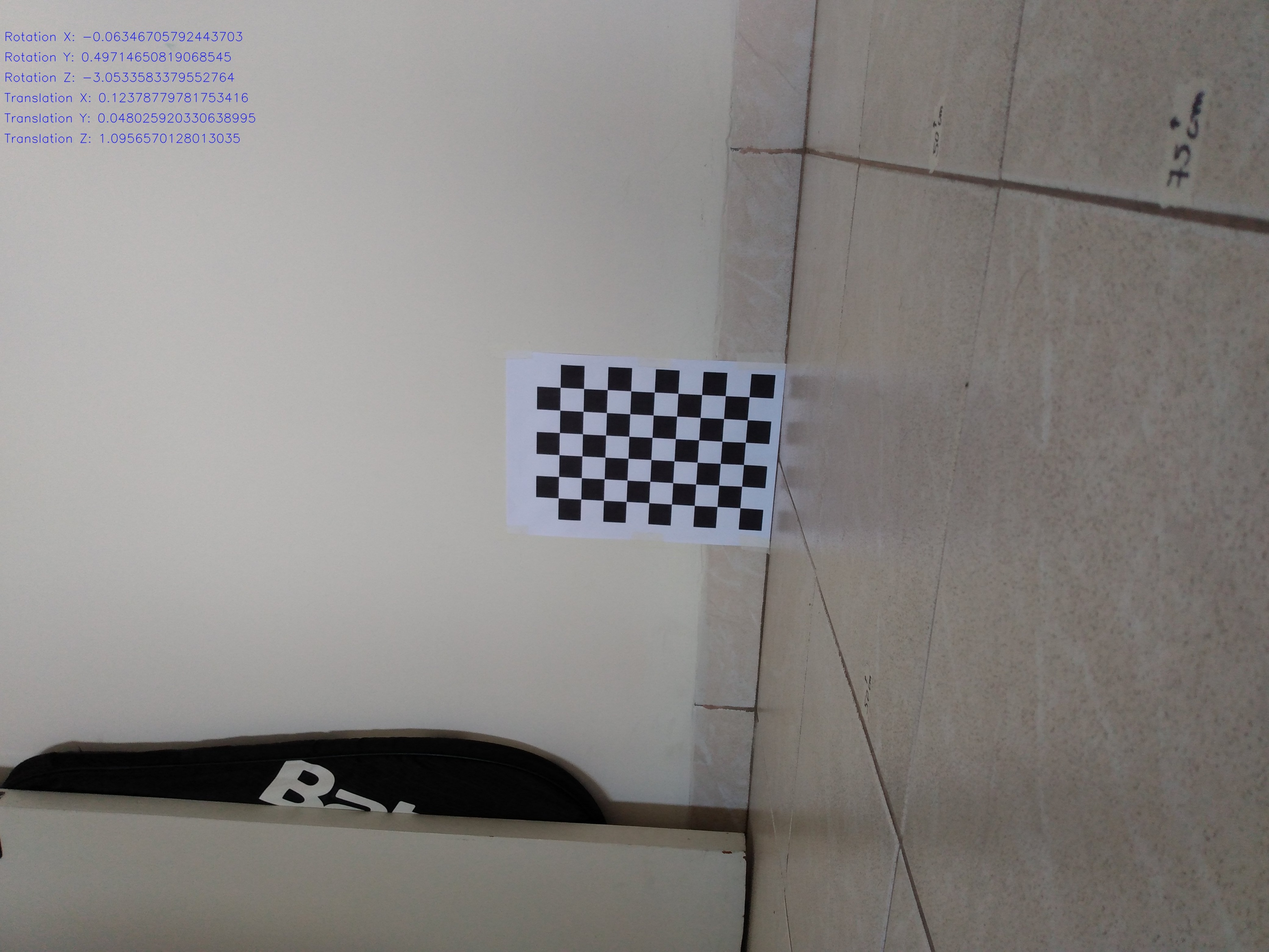
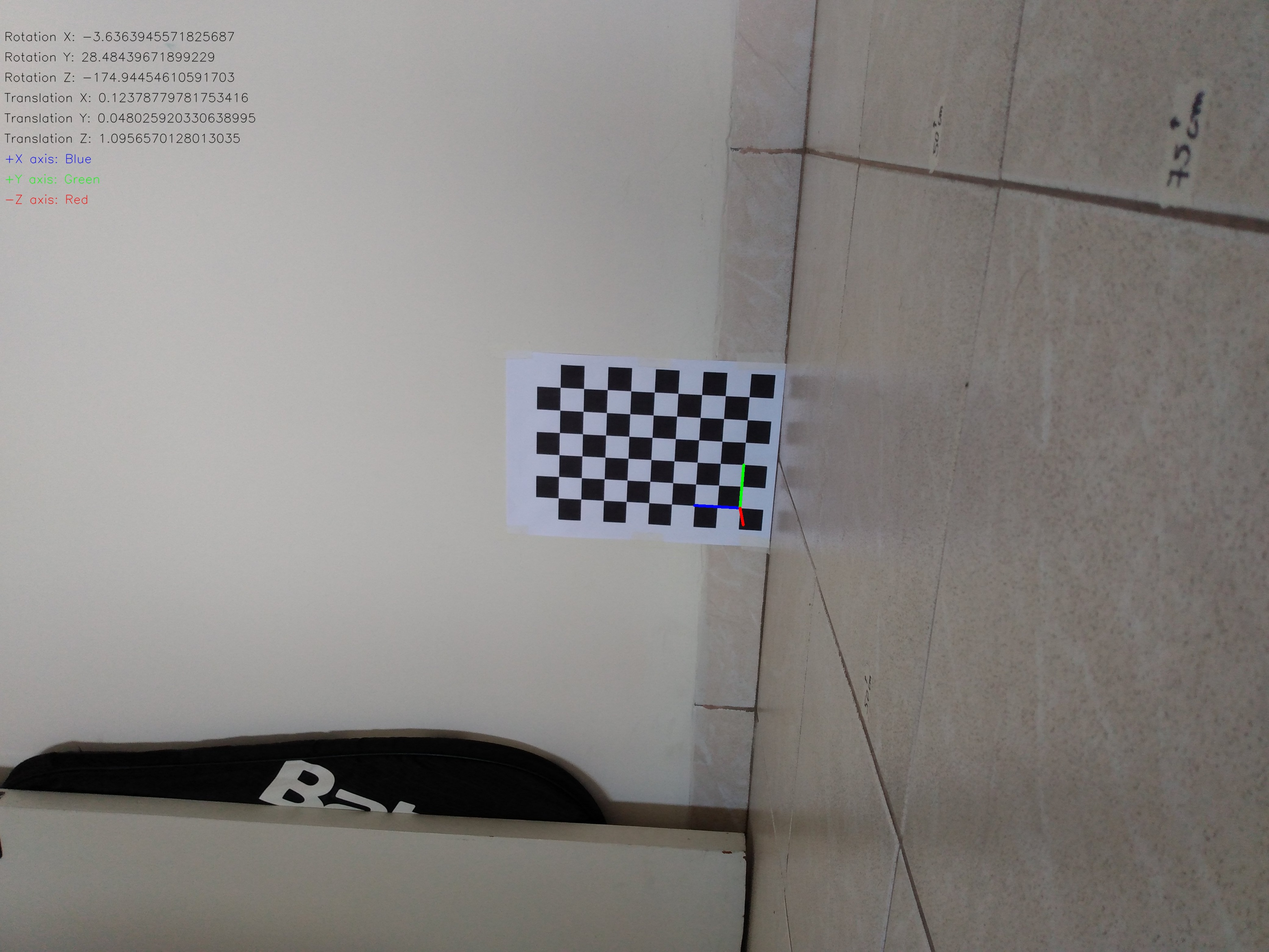
Draw axis and coordinates over chessboard image

Changed region(s): [[0.0, 0.0312, 0.1865, 0.2184], [0.5596, 0.5303, 0.5907, 0.5615]]

diff --git a/src/calibration/chessboard.py b/src/calibration/chessboard.py
@@ -3,11 +3,21 @@ from timeit import default_timer as timer
 import cv2.cv2 as cv2
 import numpy as np
 import glob
+import pprint
 
 # termination criteria
 criteria = (cv2.TERM_CRITERIA_EPS + cv2.TERM_CRITERIA_MAX_ITER, 30, 0.001)
 
-def calibrate(sourcePath, outputPath, prefix, imageFormat, squareSize, width=9, height=6, shouldDownsize=True, scale=0.5):
+def getImageAndResize(sourceFile, scale):
+    sourceImage = cv2.imread(sourceFile)
+    return cv2.resize(sourceImage, None, fx=scale, fy=scale)
+
+def getCorners(sourceImage, width, height):
+    flags = cv2.CALIB_CB_FAST_CHECK + cv2.CALIB_CB_ADAPTIVE_THRESH + cv2.CALIB_CB_NORMALIZE_IMAGE
+    grayImage = cv2.cvtColor(sourceImage, cv2.COLOR_BGR2GRAY)
+    return cv2.findChessboardCorners(grayImage, (width, height), flags)
+
+def calibrate(sourcePath, outputPath, prefix, imageFormat, squareSize, width=9, height=6, scale=0.5):
     """Calibrates camera parameters for chessboard images on the given path"""
 
     # Creating a matrix of points to map
@@ -28,26 +38,19 @@ def calibrate(sourcePath, outputPath, prefix, imageFormat, squareSize, width=9, 
     for f in photoFiles:
         start = timer()
 
-        photo = cv2.imread(f)
+        photo = getImageAndResize(f, scale)
 
-        print('\nReading image ' + str(f).split('\\')[1]) 
-
-        # Downsizing large photos may improve accuracy and reduce procesing time
-        if(shouldDownsize):
-            photo = cv2.resize(photo, None, fx=scale, fy=scale)
-
-        grayPhoto = cv2.cvtColor(photo, cv2.COLOR_BGR2GRAY)
+        print('\nReading image ' + str(f).split('\\')[1])
 
         # Find the chessboards corners
-        flags = cv2.CALIB_CB_FAST_CHECK + cv2.CALIB_CB_ADAPTIVE_THRESH + cv2.CALIB_CB_NORMALIZE_IMAGE
-        patternWasFound, corners = cv2.findChessboardCorners(grayPhoto, (width, height), flags)
+        patternWasFound, corners = getCorners(photo, height, width)
 
         # If the corners were found, add them to 3D and 2D points arrays
         if patternWasFound:
             chessboardCornersFound += 1
             pointsInSpace.append(objectPoints)
 
-            refinedCorners = cv2.cornerSubPix(grayPhoto, corners, (11, 11), (-1, -1), criteria)
+            refinedCorners = cv2.cornerSubPix(photo, corners, (11, 11), (-1, -1), criteria)
             pointsInPlane.append(refinedCorners)
 
             # Save the photos with the corners drawn, if found
@@ -62,7 +65,7 @@ def calibrate(sourcePath, outputPath, prefix, imageFormat, squareSize, width=9, 
     print('Chessboard pattern found in ' + str(chessboardCornersFound) + ' out of ' + str(len(photoFiles)) + ' photos')
 
     # Calibrating the camera using the planar and spacial points found
-    ret, mtx, dist, rvecs, tvecs = cv2.calibrateCamera(pointsInSpace, pointsInPlane, grayPhoto.shape[::-1], None, None)
+    ret, mtx, dist, rvecs, tvecs = cv2.calibrateCamera(pointsInSpace, pointsInPlane, photo.shape[::-1], None, None)
     return ret, mtx, dist, rvecs, tvecs
 
 def saveCalibrationCoeficients(mtx, dist, path):
@@ -82,14 +85,12 @@ def loadCalibrationCoeficients(path):
     cvFileHandler.release()
     return [cameraMatrix, distortionCoefficients]
 
-def undistortImage(sourceFile, outputFile, cameraMatrix, distortionCoeffs, scale=1.0):
-    originalImage = cv2.imread(sourceFile)
-    scaledImage = cv2.resize(originalImage, None, fx=scale, fy=scale)
-    h, w = scaledImage.shape[:2] # scaled image resolution - height x width
+def undistortImage(sourceImage, outputFile, cameraMatrix, distortionCoeffs, scale=1.0):
+    h, w = sourceImage.shape[:2] # scaled image resolution - height x width
     newCameraMatrix, roi = cv2.getOptimalNewCameraMatrix(cameraMatrix, distortionCoeffs, (w, h), 1, (w, h))
 
     # Correcting distortions and cropping the result
-    undistortedImage = cv2.undistort(scaledImage, cameraMatrix, distortionCoeffs, None, newCameraMatrix)
+    undistortedImage = cv2.undistort(sourceImage, cameraMatrix, distortionCoeffs, None, newCameraMatrix)
     x, y, w, h = roi
     undistortedImage = undistortedImage[y:y+h, x:x+w]
     cv2.imwrite(outputFile, undistortedImage)
@@ -103,85 +104,72 @@ def drawAxis(image, corners, imagePoints):
     
     return image
 
-def drawOnChessboard(sourceFile, outputFile, axisLength, cameraMatrix, distortionCoeffs, width=9, height=6, scale=1.0):
+def drawOnChessboard(sourceImage, outputFile, axisLength, cameraMatrix, distortionCoeffs, rotVectors, traVectors, corners, width=9, height=6, scale=1.0):
     objectPoints = np.zeros((height*width, 3), np.float32)
     objectPoints[:, :2] = np.mgrid[0:width, 0:height].T.reshape(-1, 2)
     axis = np.array([[axisLength,0,0], [0,axisLength,0], [0,0,-axisLength]], dtype='f').reshape(-1, 3)
 
-    sourceImage = cv2.imread(sourceFile)
-    sourceImage = cv2.resize(sourceImage, None, fx=scale, fy=scale)
+    # Project 3D points to the image plane
+    imagePoints, _ = cv2.projectPoints(axis, rotVectors, traVectors, cameraMatrix, distortionCoeffs)
+    imageWithAxis = drawAxis(sourceImage, corners, imagePoints)
+  
+    return imageWithAxis
 
-    grayImage = cv2.cvtColor(sourceImage, cv2.COLOR_BGR2GRAY)
-
-    flags = cv2.CALIB_CB_FAST_CHECK + cv2.CALIB_CB_ADAPTIVE_THRESH + cv2.CALIB_CB_NORMALIZE_IMAGE
-    found, corners = cv2.findChessboardCorners(grayImage, (width, height), flags)
-
-    if found:
-        refinedCorners = cv2.cornerSubPix(grayImage, corners, (11,11), (-1, -1), criteria)
-
-        # Find the rotation and translation vectors
-        _, rotVectors, traVectors, _ = cv2.solvePnPRansac(objectPoints, refinedCorners, cameraMatrix, distortionCoeffs)
-
-        # Project 3D points to the image plane
-        imagePoints, _ = cv2.projectPoints(axis, rotVectors, traVectors, cameraMatrix, distortionCoeffs)
-
-        imageWithAxis = drawAxis(sourceImage, refinedCorners, imagePoints)
-        cv2.imshow('Drawn axis', cv2.resize(imageWithAxis, None, fx=0.3, fy=0.3)) # displaying the resized image so it fits
-
-        print('Press a key to exit and save the image')
-
-        cv2.waitKey(0)
-        cv2.imwrite(outputFile, imageWithAxis)
-    
-    cv2.destroyAllWindows()
-
-def getPositionVectors(sourceFile, cameraMatrix, distortionCoeffs, squareSize=1, width=9, height=6, scale=1.0):
+def getPositionVectors(image, corners, cameraMatrix, distortionCoeffs, width=9, height=6):
     objectPoints = np.zeros((height*width, 3), np.float32)
     objectPoints[:, :2] = np.mgrid[0:width, 0:height].T.reshape(-1, 2)
+    
+    grayImage = cv2.cvtColor(image, cv2.COLOR_BGR2GRAY)
+    refinedCorners = cv2.cornerSubPix(grayImage, corners, (11,11), (-1, -1), criteria)
 
-    sourceImage = cv2.imread(sourceFile)
-    sourceImage = cv2.resize(sourceImage, None, fx=scale, fy=scale)
+    # Find the rotation and translation vectors
+    _, rotVectors, traVectors, error = cv2.solvePnPRansac(objectPoints, refinedCorners, cameraMatrix, distortionCoeffs)
 
-    grayImage = cv2.cvtColor(sourceImage, cv2.COLOR_BGR2GRAY)
-
-    flags = cv2.CALIB_CB_FAST_CHECK + cv2.CALIB_CB_ADAPTIVE_THRESH + cv2.CALIB_CB_NORMALIZE_IMAGE
-    found, corners = cv2.findChessboardCorners(grayImage, (width, height), flags)
-
-    if found:
-        refinedCorners = cv2.cornerSubPix(grayImage, corners, (11,11), (-1, -1), criteria)
-
-        # Find the rotation and translation vectors
-        _, rotVectors, traVectors, _ = cv2.solvePnPRansac(objectPoints, refinedCorners, cameraMatrix, distortionCoeffs)
-
-        return rotVectors, traVectors  * squareSize
-    else:
-        return [], []
+    return rotVectors , traVectors, error
 
 def drawPositionVectors(sourceFile, outputFile, cameraMatrix, distortionCoeffs, squareSize=1, width=9, height=6, scale=1.0):
-    rotVectors, traVectors = getPositionVectors(sourceFile, cameraMatrix, distortionCoeffs, squareSize, width, height, scale)
+    sourceImage = getImageAndResize(sourceFile, scale)
+    found, corners = getCorners(sourceImage, width, height)
+
+    if found:
+        rotVectors, traVectors, _ = getPositionVectors(sourceImage, corners, cameraMatrix, distortionCoeffs, width, height)
     
-    rotX, rotY, rotZ = rotVectors
-    traX, traY, traZ = traVectors
+        rotX, rotY, rotZ = rotVectors
+        traX, traY, traZ = traVectors
 
-    sourceImage = cv2.imread(sourceFile)
-    sourceImage = cv2.resize(sourceImage, None, fx=scale, fy=scale)
+        font = cv2.FONT_HERSHEY_SIMPLEX
+        initialPosition = (10,100)
+        positionIncrement = 50
+        scale = 1
+        color = (0,0,0)
+        thickness = 1
 
-    font = cv2.FONT_HERSHEY_SIMPLEX
-    initialPosition = (10,100)
-    positionIncrement = 50
-    scale = 1
-    color = (255,0,0)
-    thickness = 1
+        coordNames = ['Rotation X: ', 'Rotation Y: ', 'Rotation Z: ',
+                     'Translation X: ', 'Translation Y: ', 'Translation Z: ']
 
-    coordNames = ['Rotation X: ', 'Rotation Y: ', 'Rotation Z: ',
-                  'Translation X: ', 'Translation Y: ', 'Translation Z: ']
-    coords = [rotX[0], rotY[0], rotZ[0], traX[0], traY[0], traZ[0]]
+        # *(180/pi) to convert from radians to degrees
+        # *squareSize to convert from squareCount to meters
+        coords = [rotX[0] * (180/np.pi), rotY[0] * (180/np.pi), rotZ[0] * (180/np.pi),
+                  traX[0]  * squareSize, traY[0]  * squareSize, traZ[0]  * squareSize]
 
-    for i in range(len(coords)):
-        position = (initialPosition[0], initialPosition[1] + i * positionIncrement)
-        cv2.putText(sourceImage, coordNames[i] + str(coords[i]), position, font, scale, color, thickness, cv2.LINE_AA)
+        for i in range(len(coords) + 3):
+            position = (initialPosition[0], initialPosition[1] + i * positionIncrement)
+            if(i < len(coords)):
+                cv2.putText(sourceImage, coordNames[i] + str(coords[i]), position, font, scale, color, thickness, cv2.LINE_AA)
+            if(i == len(coords)):
+                cv2.putText(sourceImage, '+X axis: Blue', position, font, scale, (255, 0, 0), thickness, cv2.LINE_AA)
+            elif(i == (len(coords) + 1)):
+                cv2.putText(sourceImage, '+Y axis: Green', position, font, scale, (0, 255, 0), thickness, cv2.LINE_AA)
+            elif(i == (len(coords) + 2)):
+                cv2.putText(sourceImage, '-Z axis: Red', position, font, scale, (0, 0, 255), thickness, cv2.LINE_AA)
 
-    cv2.imshow('Position vectors', cv2.resize(sourceImage, None, fx=0.5, fy=0.5))
-    cv2.waitKey(0)
+        imgWithCoords = drawOnChessboard(sourceImage, outputFile, 2, cameraMatrix, distortionCoeffs, rotVectors, traVectors, corners, width=9, height=6, scale=1.0)
 
-    cv2.imwrite(outputFile, sourceImage)
+        # print('Press a key to close the image and continue')
+        # cv2.imshow(outputFile, cv2.resize(imgWithCoords, None, fx=0.25, fy=0.25))
+        # cv2.waitKey(0)
+        # cv2.destroyAllWindows()
+
+        cv2.imwrite(outputFile, imgWithCoords)
+    else:
+        print('Chessboard not found on image')

diff --git a/tests/chessboardCalibration.py b/tests/chessboardCalibration.py
@@ -2,10 +2,10 @@ import pprint
 
 import src.calibration.chessboard as chess
 
-def getCoefficients(imgSrcPath, imgOutPath, imgPrefix, imgFormat, sqrSize, boardWidth, boardHeight, downsize, scale, calibrationFilename):
+def getCoefficients(imgSrcPath, imgOutPath, imgPrefix, imgFormat, sqrSize, boardWidth, boardHeight, scale, calibrationFilename):
     '''Calculates the calibration coefficients, prints them and stores them as a YML file'''
     ret, mtx, dist, rvecs, tvecs = chess.calibrate(imgSrcPath, imgOutPath, imgPrefix, imgFormat, sqrSize,
-                                                   boardWidth, boardHeight, downsize, scale)
+                                                   boardWidth, boardHeight, scale)
 
     print('\nReturn value:')
     pprint.pprint(ret)
@@ -32,39 +32,27 @@ def undistortImage(imageSource, imageOutput, calibrationFile, scale):
     cameraMatrix, distortionCoefficients = chess.loadCalibrationCoeficients(calibrationFile)
     chess.undistortImage(imageSource, imageOutput, cameraMatrix, distortionCoefficients, scale)
 
-def drawAxisOnChessboardImage(imageSource, imageOutput, axisLength, calibrationFile, width=9, height=6, scale=0.75):
-    '''Draws an axis on a chessboard figure and optionally saves it to imageOutput'''
-    
-    cameraMatrix, distortionCoefficients = chess.loadCalibrationCoeficients(calibrationFile)
-    chess.drawOnChessboard(imageSource, imageOutput, axisLength, cameraMatrix, distortionCoefficients,
-                           width, height, scale)
-
-def findChessboardCoordinates(imageSource, calibrationFile, squareSize, width, height, scale):
-    cameraMatrix, distortionCoefficients = chess.loadCalibrationCoeficients(calibrationFile)
-    rotationVectors, translationVectors = chess.getPositionVectors(imageSource, cameraMatrix, distortionCoefficients,
-                                                                   squareSize, width, height, scale)
-    
-    print('\nRotation vectors:')
-    pprint.pprint(rotationVectors)
-
-    print('\nTranslation vectors:')
-    pprint.pprint(translationVectors)
-
 def drawPositionVectors(imageSource, imageOutput, calibrationFile, squareSize, width, height, scale):
     cameraMatrix, distortionCoefficients = chess.loadCalibrationCoeficients(calibrationFile)
     chess.drawPositionVectors(imageSource, imageOutput, cameraMatrix, distortionCoefficients, squareSize, width, height, scale)
 
-# getCoefficients('images/for-calibration', 'images/calibration-output', 'X', 'jpg', 0.228/9, 9, 6, True, 0.75,
+# getCoefficients('images/for-calibration', 'images/calibration-output', 'X', 'jpg', 0.228/9, 9, 6, 0.75,
 #                 'tests/calibration-coefficients/g7-play-X-75-percent-resolution.yml') # measured 22.8cm - 9 squares
 
 # undistortImage('images/for-calibration/C11.jpg', 'images/calibration-output/C11-undistorted.jpg', 
 #                'tests/calibration-coefficients/g7-play-75-percent-resolution.yml', 0.75)
 
-# drawAxisOnChessboardImage('images/for-calibration/C11.jpg', 'images/calibration-output/C11-axis.jpg', 2,
-#                           'tests/calibration-coefficients/g7-play-75-percent-resolution.yml', 9, 6 , 0.75)
-
 # findChessboardCoordinates('images/for-calibration/D100cm.jpg', 'tests/calibration-coefficients/g7-play-100-percent-resolution.yml',
 #                           0.228/9, 9, 6, 1.0) # measured 22.8cm - 9 squares
 
-drawPositionVectors('images/for-calibration/Z100-00.jpg', 'images/calibration-output/Z100-00-coords.jpg',
-                    'tests/calibration-coefficients/g7-play-X-75-percent-resolution.yml', 0.228/9, 9, 6, 0.75)
+poseCalibImages = ['Z50-00', 'Z50-01', 'Z50-02','Z75-00','Z75-01','Z75-02','Z100-00','Z100-01','Z100-02']
+calibrationFile = 'tests/calibration-coefficients/g7-play-X-75-percent-resolution.yml'
+
+for img in poseCalibImages:
+    print('\nEstimating pose on ' + img)
+    inputFolder = 'images/for-calibration/'
+    outputFolder = 'images/calibration-output/'
+    extension = '.jpg'
+    outputFile = outputFolder + img + '-coords' + extension
+    drawPositionVectors(inputFolder + img + extension, outputFile, 
+                        calibrationFile, 0.228/9, 9, 6, 0.75)
